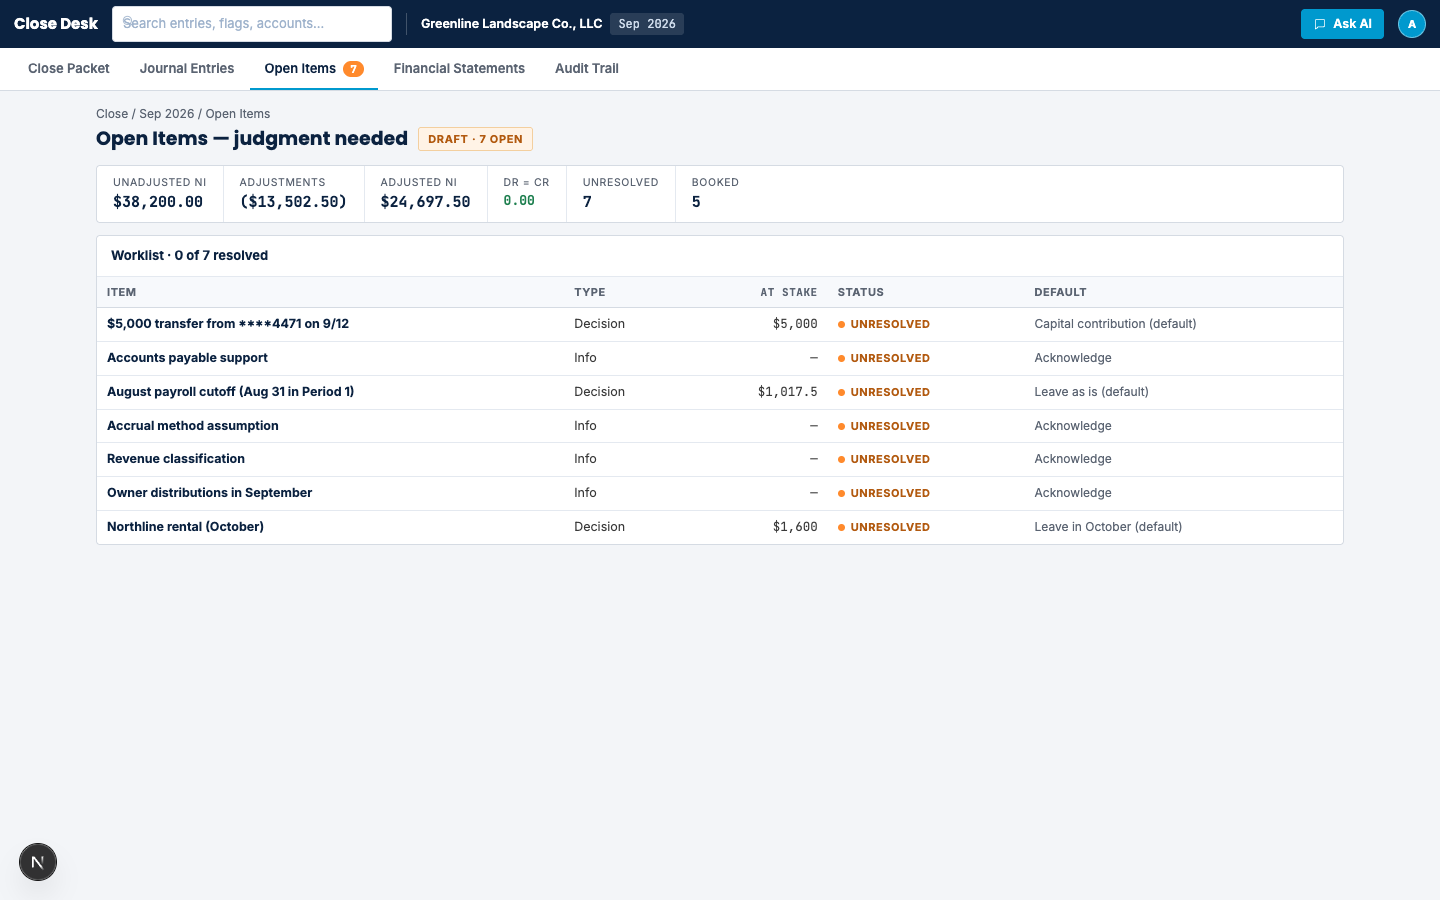
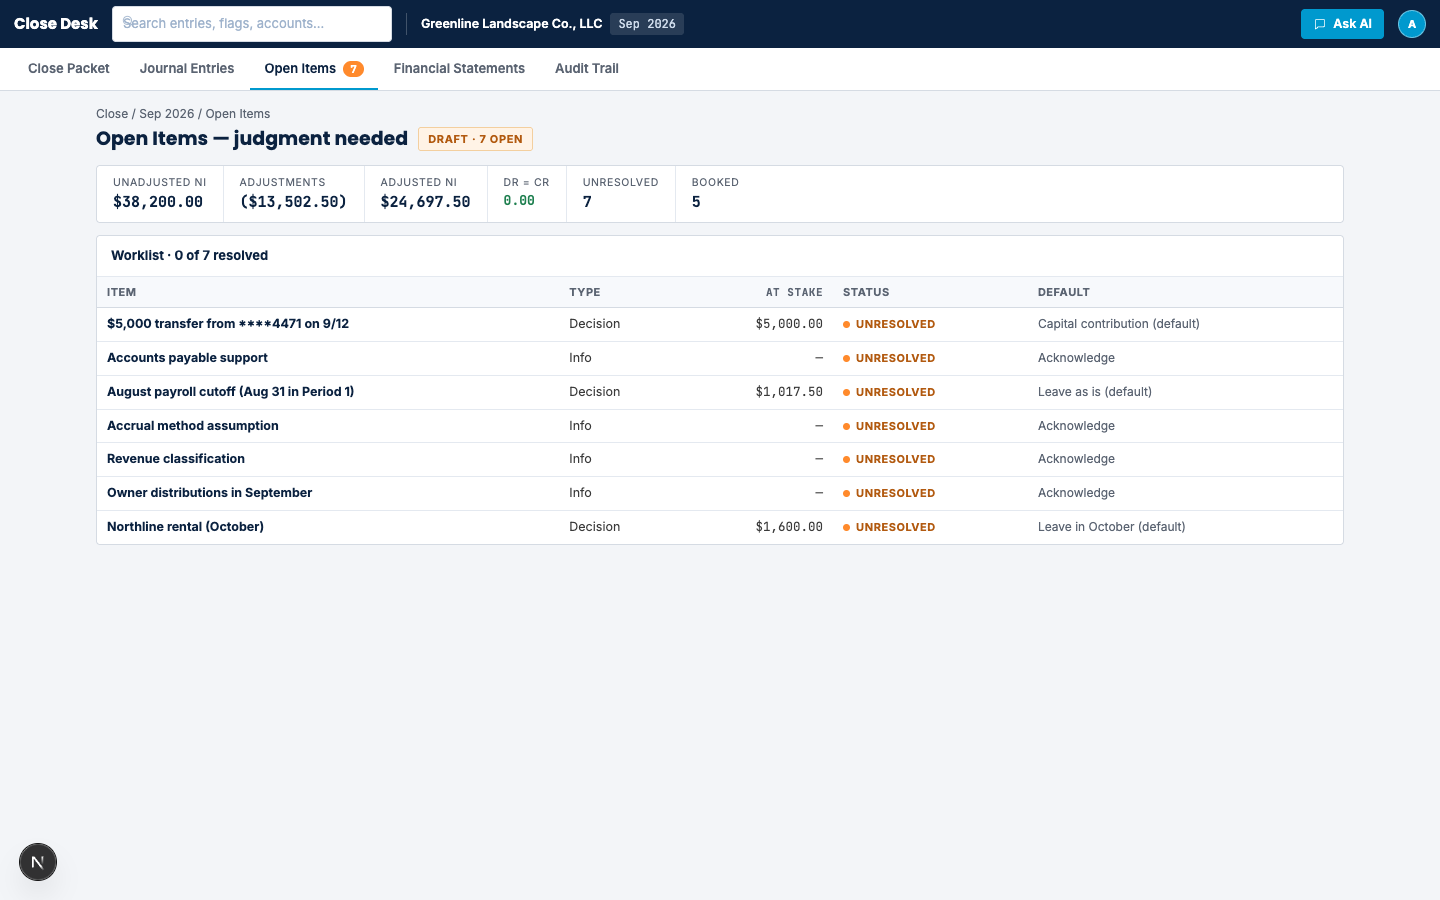
erp: fix at-stake decimals, refresh shots

diff --git a/app/open-items/page.tsx b/app/open-items/page.tsx
@@ -171,7 +171,7 @@ function Body() {
                   <tr key={f.id} className={`clickable${selected === f.id ? " selected" : ""}`} onClick={() => setSelected(f.id)} onKeyDown={(e) => { if (e.key === "Enter") setSelected(f.id); }} tabIndex={0}>
                     <td><strong style={{ color: "var(--navy)" }}>{f.title}</strong></td>
                     <td>{f.kind === "info" ? "Info" : "Decision"}</td>
-                    <td className="num">{stake === null ? "—" : `$${stake.toLocaleString()}`}</td>
+                    <td className="num">{stake === null ? "—" : `$${stake.toLocaleString("en-US", { minimumFractionDigits: 2, maximumFractionDigits: 2 })}`}</td>
                     <td><span className={`st ${st.cls}`}>{st.text}</span></td>
                     <td className="small muted">{def}</td>
                   </tr>
